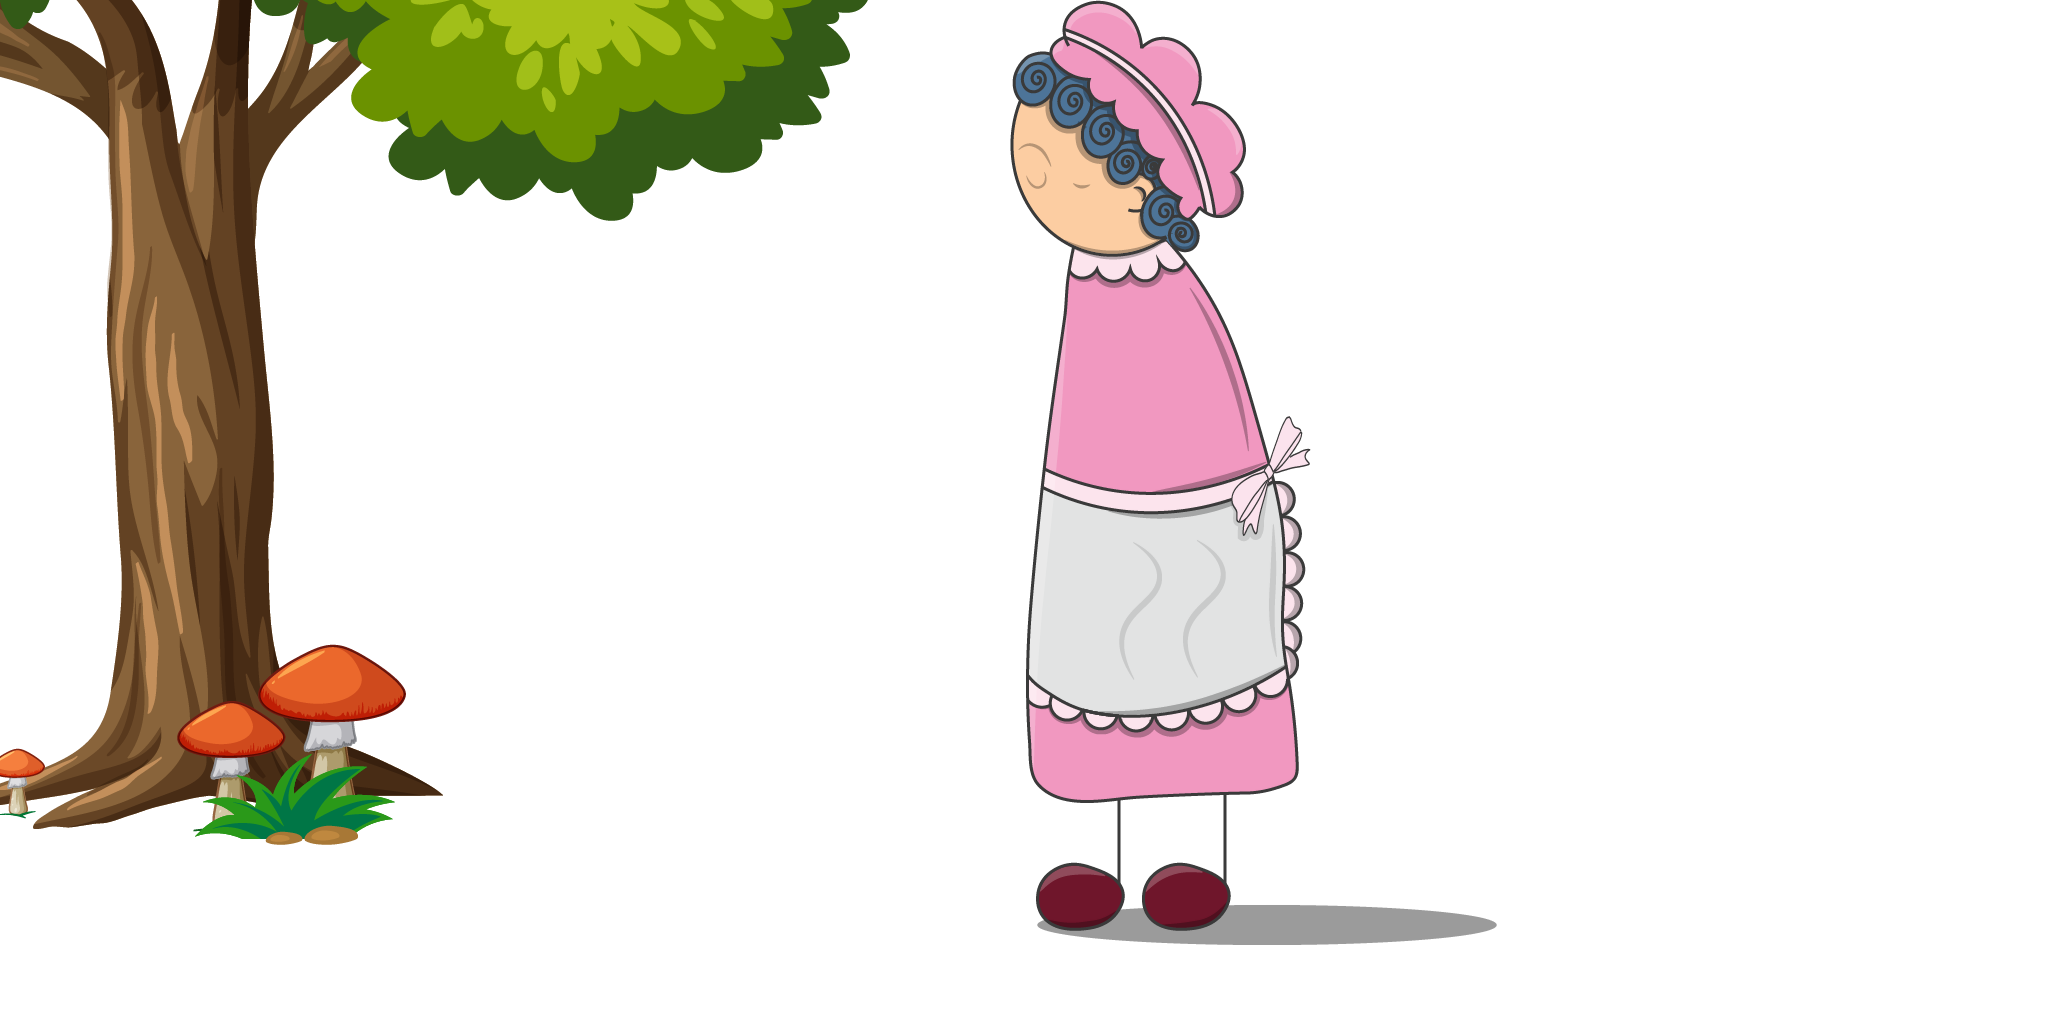
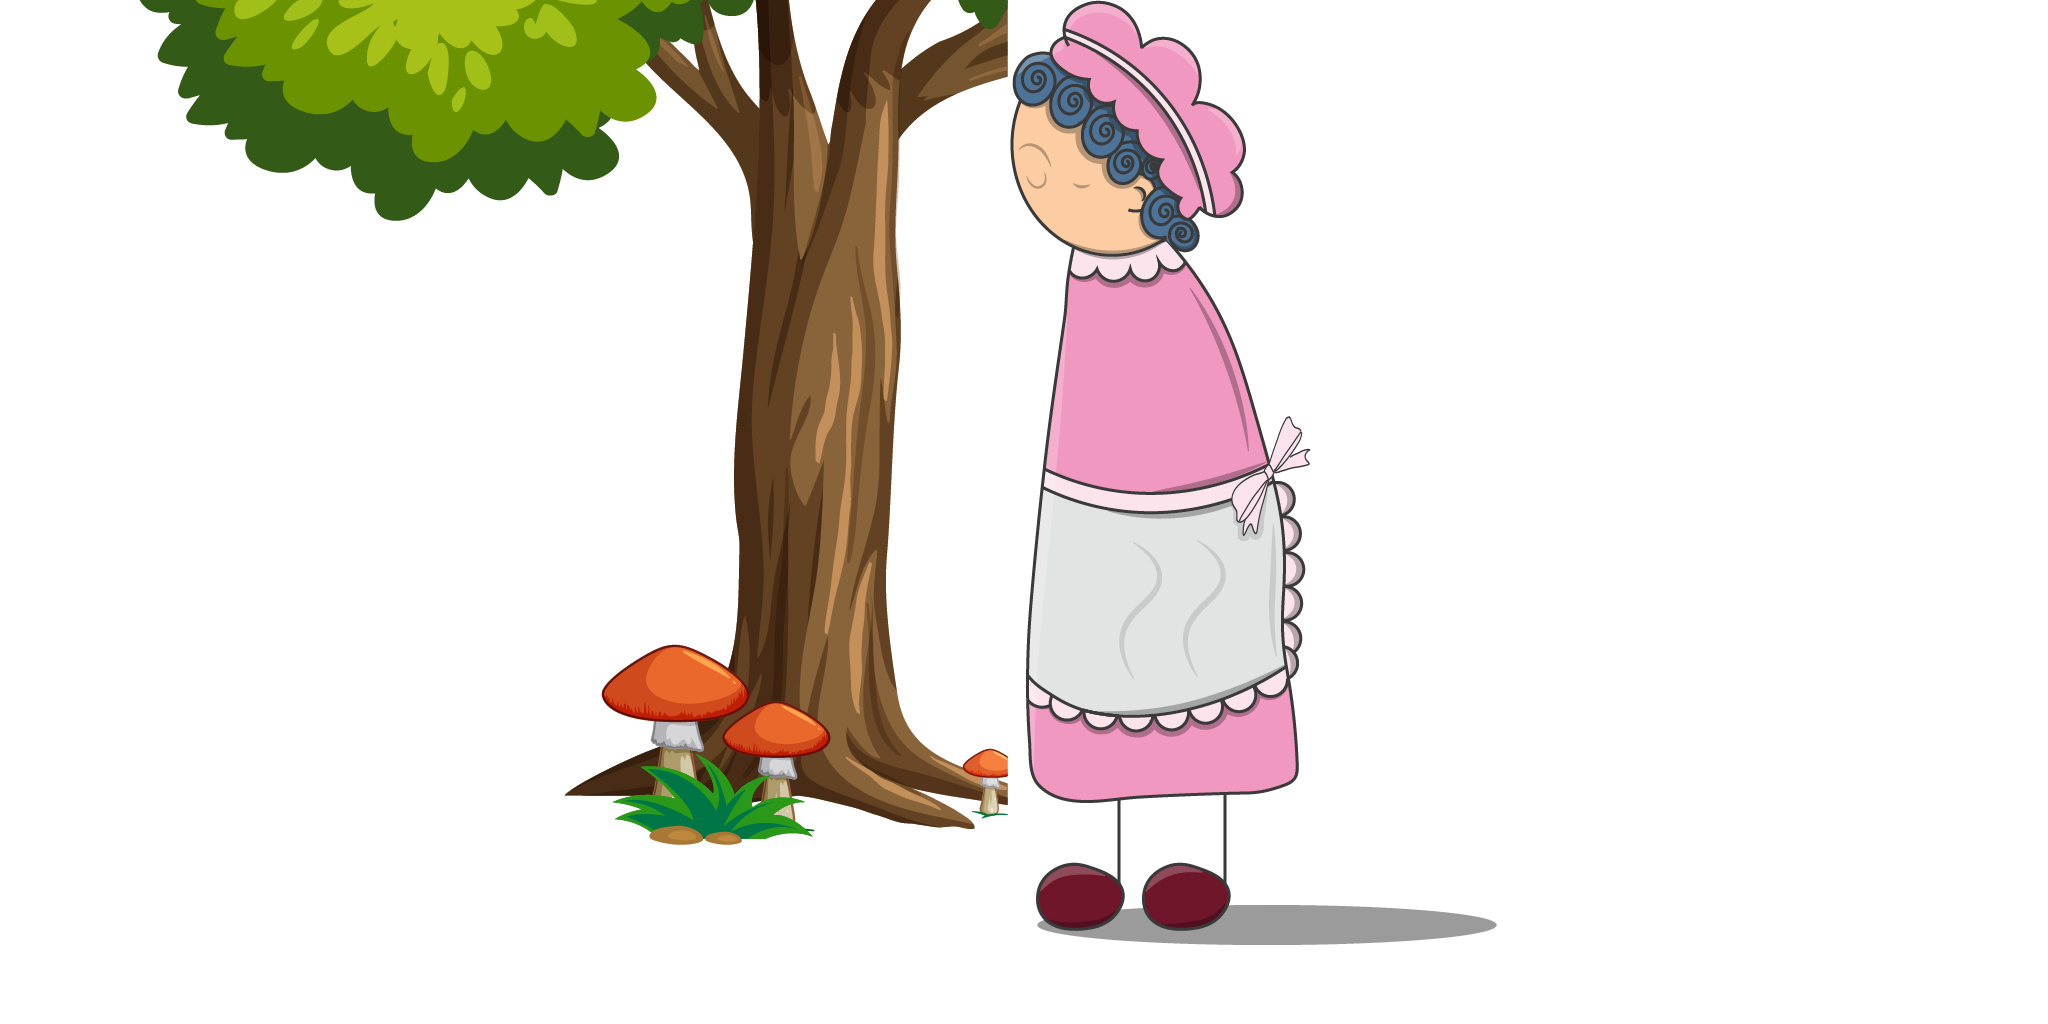
all

Changed region(s): [[0.0, 0.0, 0.5, 0.8438]]

diff --git a/MenuPrincipal/index.js b/MenuPrincipal/index.js
@@ -95,6 +95,13 @@ lib.ssMetadata = [
 
 
 
+(lib.Arbol = function() {
+	this.initialize(ss["index_atlas_2"]);
+	this.gotoAndStop(1);
+}).prototype = p = new cjs.Sprite();
+
+
+
 (lib.Auroraboca = function() {
 	this.initialize(ss["index_atlas_6"]);
 	this.gotoAndStop(7);
@@ -297,12 +304,6 @@ p.nominalBounds = new cjs.Rectangle(0,0,2377,198);
 
 
 
-(lib.Fondo1 = function() {
-	this.initialize(img.Fondo1);
-}).prototype = p = new cjs.Bitmap();
-p.nominalBounds = new cjs.Rectangle(0,0,2374,1140);
-
-
 (lib.Fondo = function() {
 	this.initialize(img.Fondo);
 }).prototype = p = new cjs.Bitmap();
@@ -313,6 +314,12 @@ p.nominalBounds = new cjs.Rectangle(0,0,2732,1536);
 	this.initialize(img.Fondo_1);
 }).prototype = p = new cjs.Bitmap();
 p.nominalBounds = new cjs.Rectangle(0,0,2375,1135);
+
+
+(lib.Fondo_1_1 = function() {
+	this.initialize(img.Fondo_1_1);
+}).prototype = p = new cjs.Bitmap();
+p.nominalBounds = new cjs.Rectangle(0,0,2374,1140);
 
 
 (lib.GeppetoBoca = function() {
@@ -367,13 +374,6 @@ p.nominalBounds = new cjs.Rectangle(0,0,2375,1135);
 (lib.ja = function() {
 	this.initialize(ss["index_atlas_6"]);
 	this.gotoAndStop(36);
-}).prototype = p = new cjs.Sprite();
-
-
-
-(lib.LoboArbol = function() {
-	this.initialize(ss["index_atlas_2"]);
-	this.gotoAndStop(1);
 }).prototype = p = new cjs.Sprite();
 
 
@@ -1222,8 +1222,8 @@ if (reversed == null) { reversed = false; }
 	cjs.MovieClip.apply(this,[props]);
 
 	// Lobo_Arbol_png
-	this.instance = new lib.LoboArbol();
-	this.instance.setTransform(-308,-272,0.5,0.5);
+	this.instance = new lib.Arbol();
+	this.instance.setTransform(196,-272,0.5,0.5,0,0,180);
 
 	this.timeline.addTween(cjs.Tween.get(this.instance).wait(96));
 
@@ -1848,7 +1848,7 @@ if (reversed == null) { reversed = false; }
 
 	// lobo
 	this.instance_4 = new lib.lobo();
-	this.instance_4.setTransform(-9.65,9.2);
+	this.instance_4.setTransform(-34.4,14.8);
 
 	this.timeline.addTween(cjs.Tween.get(this.instance_4).wait(58));
 
@@ -1866,7 +1866,7 @@ if (reversed == null) { reversed = false; }
 	this.instance_7.setTransform(315,-19,0.5,0.5);
 
 	this.instance_8 = new lib.cerdo_medio();
-	this.instance_8.setTransform(241.25,152.25);
+	this.instance_8.setTransform(202.25,146.15,1,1,0,0,180);
 
 	this.timeline.addTween(cjs.Tween.get({}).to({state:[{t:this.instance_8},{t:this.instance_7},{t:this.instance_6}]}).wait(58));
 
@@ -1874,10 +1874,10 @@ if (reversed == null) { reversed = false; }
 	this.instance_9 = new lib.brillopantalla();
 	this.instance_9.setTransform(867,-263,1,1,0,0,180);
 
-	this.instance_10 = new lib.Fondo1();
-	this.instance_10.setTransform(-343,-258,0.5109,0.4991);
+	this.instance_10 = new lib.Fondo_1_1();
+	this.instance_10.setTransform(869.9,-258,0.5109,0.4991,0,0,180);
 
-	this.timeline.addTween(cjs.Tween.get({}).to({state:[{t:this.instance_10},{t:this.instance_9}]}).wait(58));
+	this.timeline.addTween(cjs.Tween.get({}).to({state:[{t:this.instance_10},{t:this.instance_9}]}).to({state:[{t:this.instance_10},{t:this.instance_9}]},57).wait(1));
 
 	this._renderFirstFrame();
 
@@ -2032,7 +2032,7 @@ if (reversed == null) { reversed = false; }
 	this._renderFirstFrame();
 
 }).prototype = p = new cjs.MovieClip();
-p.nominalBounds = new cjs.Rectangle(-94.5,-0.9,1174,568.5);
+p.nominalBounds = new cjs.Rectangle(-94.5,-0.9,1173.9,568.5);
 
 
 (lib.cuento2mc = function(mode,startPosition,loop,reversed) {
@@ -2480,20 +2480,20 @@ lib.properties = {
 	color: "#323232",
 	opacity: 1.00,
 	manifest: [
-		{src:"images/CespedFrente.png?1678809879257", id:"CespedFrente"},
-		{src:"images/Fondo1.png?1678809879257", id:"Fondo1"},
-		{src:"images/Fondo.png?1678809879257", id:"Fondo"},
-		{src:"images/Fondo_1.png?1678809879257", id:"Fondo_1"},
-		{src:"images/Pantalla.png?1678809879257", id:"Pantalla"},
-		{src:"images/PortadaCuento2.png?1678809879257", id:"PortadaCuento2"},
-		{src:"images/index_atlas_1.png?1678809879038", id:"index_atlas_1"},
-		{src:"images/index_atlas_2.png?1678809879038", id:"index_atlas_2"},
-		{src:"images/index_atlas_3.png?1678809879038", id:"index_atlas_3"},
-		{src:"images/index_atlas_4.png?1678809879039", id:"index_atlas_4"},
-		{src:"images/index_atlas_5.png?1678809879039", id:"index_atlas_5"},
-		{src:"images/index_atlas_6.png?1678809879043", id:"index_atlas_6"},
-		{src:"sounds/intro.mp3?1678809879257", id:"intro"},
-		{src:"sounds/sound.mp3?1678809879257", id:"sound"}
+		{src:"images/CespedFrente.png?1678817952326", id:"CespedFrente"},
+		{src:"images/Fondo.png?1678817952326", id:"Fondo"},
+		{src:"images/Fondo_1.png?1678817952326", id:"Fondo_1"},
+		{src:"images/Fondo_1_1.png?1678817952326", id:"Fondo_1_1"},
+		{src:"images/Pantalla.png?1678817952326", id:"Pantalla"},
+		{src:"images/PortadaCuento2.png?1678817952326", id:"PortadaCuento2"},
+		{src:"images/index_atlas_1.png?1678817952109", id:"index_atlas_1"},
+		{src:"images/index_atlas_2.png?1678817952110", id:"index_atlas_2"},
+		{src:"images/index_atlas_3.png?1678817952110", id:"index_atlas_3"},
+		{src:"images/index_atlas_4.png?1678817952110", id:"index_atlas_4"},
+		{src:"images/index_atlas_5.png?1678817952111", id:"index_atlas_5"},
+		{src:"images/index_atlas_6.png?1678817952112", id:"index_atlas_6"},
+		{src:"sounds/intro.mp3?1678817952326", id:"intro"},
+		{src:"sounds/sound.mp3?1678817952326", id:"sound"}
 	],
 	preloads: []
 };

diff --git a/MenuPrincipal/index.html b/MenuPrincipal/index.html
@@ -22,7 +22,7 @@
   }
 </style>
 <script src="https://code.createjs.com/1.0.0/createjs.min.js"></script>
-<script src="index.js?1678809879315"></script>
+<script src="index.js?1678817952397"></script>
 <script>
 var canvas, stage, exportRoot, anim_container, dom_overlay_container, fnStartAnimation;
 function init() {
